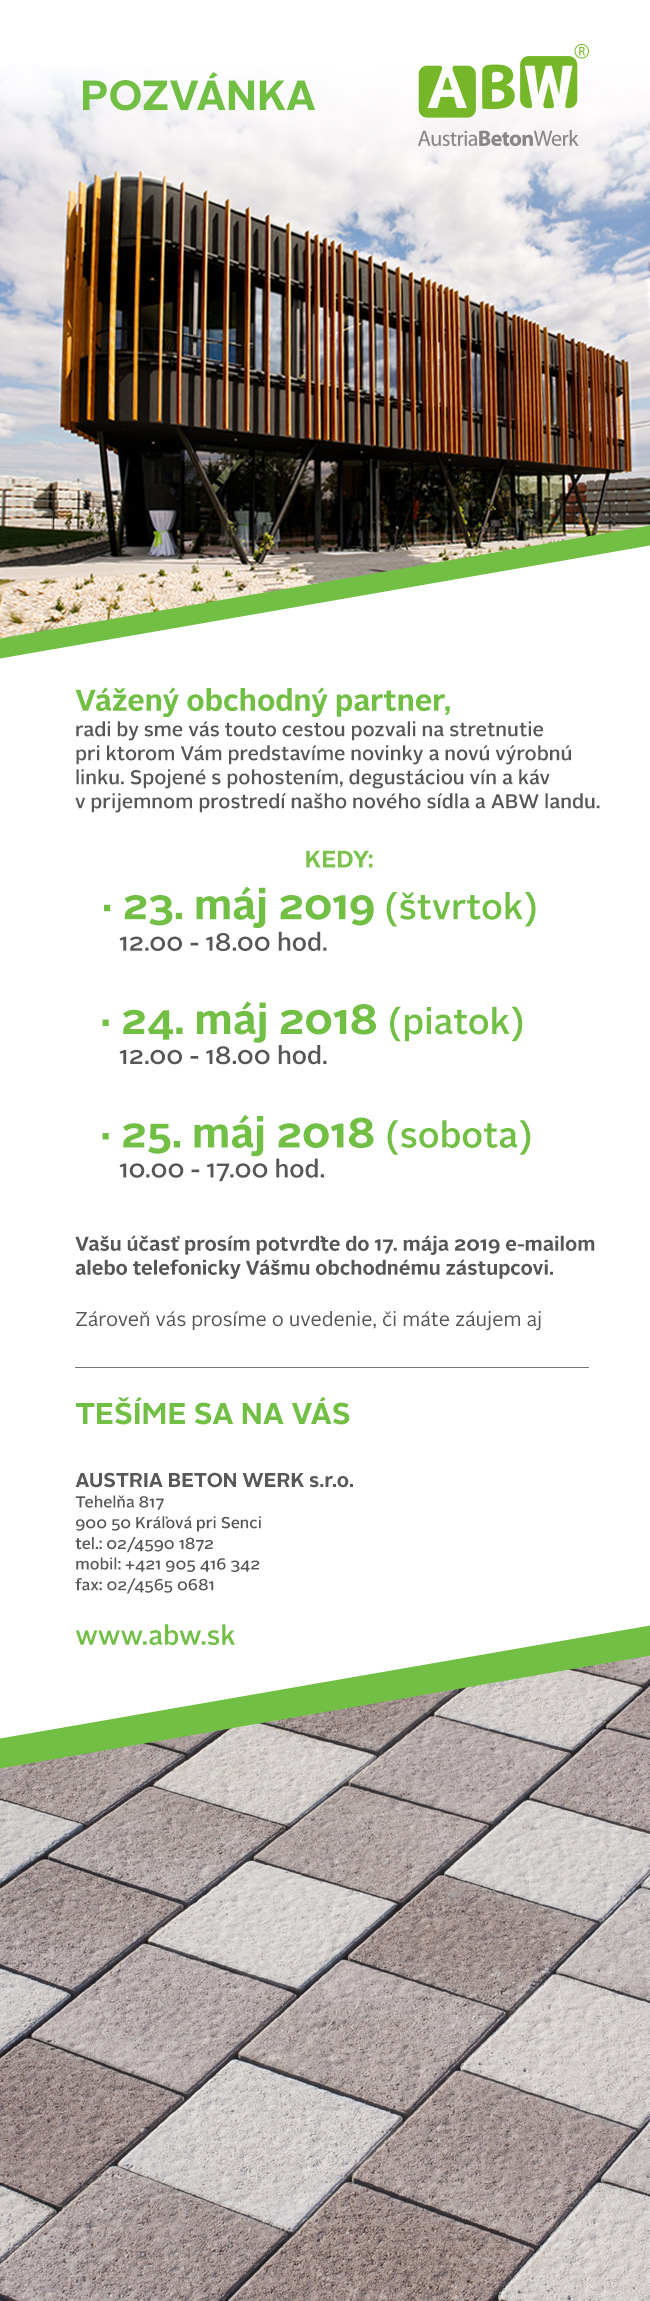
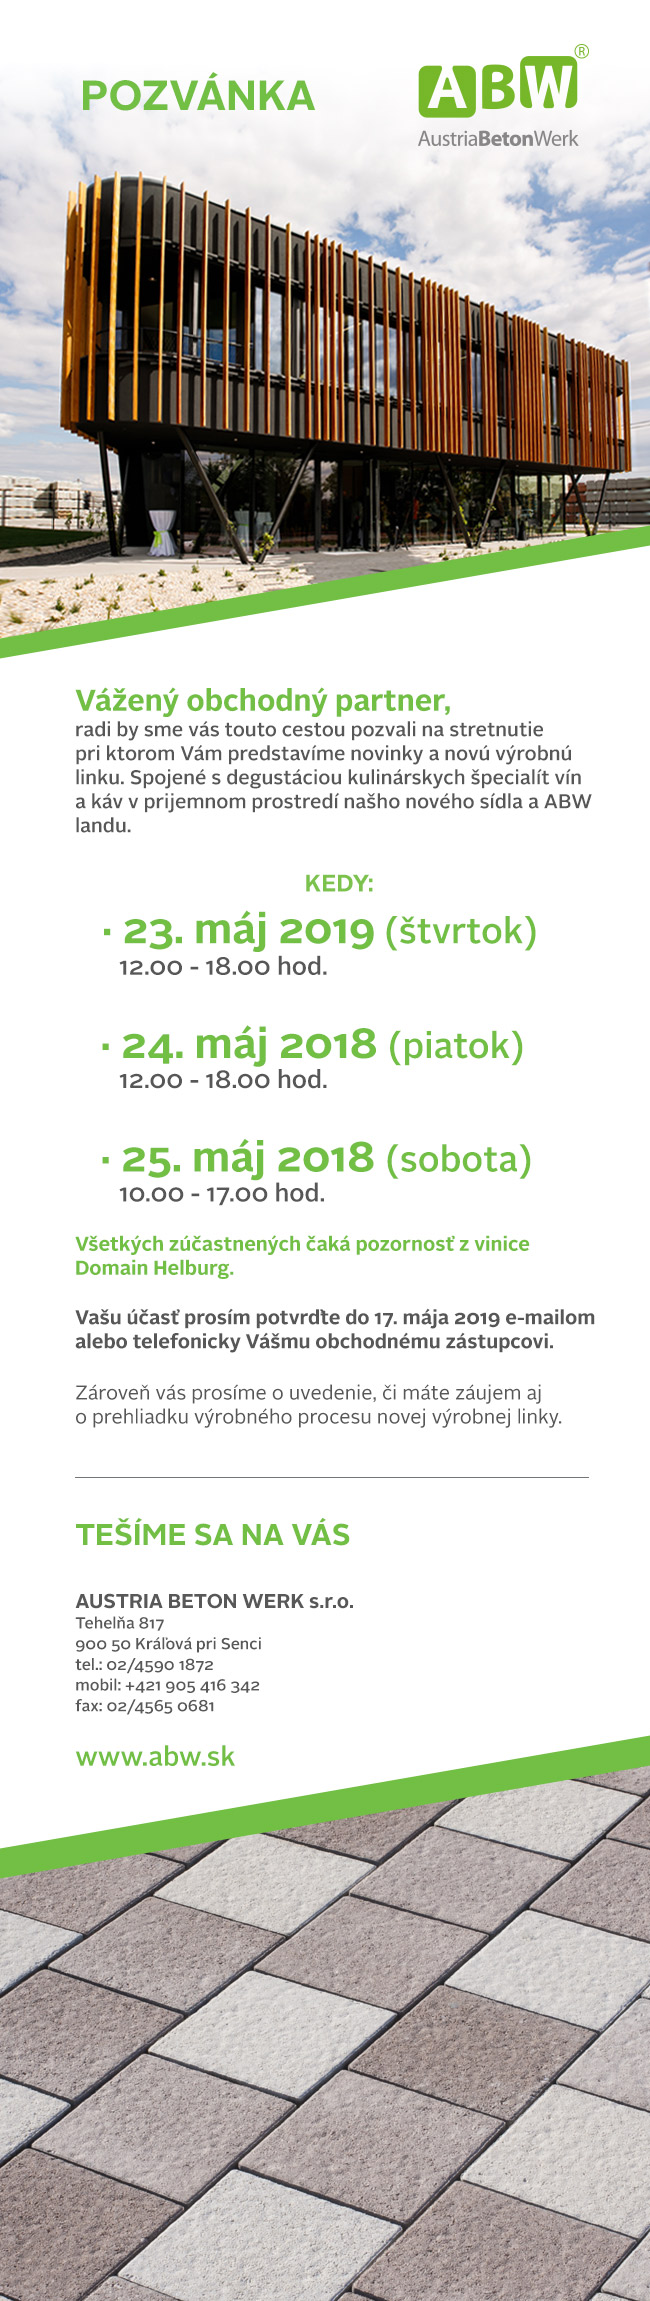
Sum

Changed region(s): [[0.0, 0.3086, 1.0, 1.0]]

diff --git a/docs/newsletter/05.19/dod/index-2.html b/docs/newsletter/05.19/dod/index-2.html
@@ -1,0 +1,20 @@
+<!doctype html>
+<html>
+<head>
+<meta charset="UTF-8">
+<title>Pozvánka</title>
+</head><style type="text/css">
+body {
+	background-color: #666;
+}
+</style>
+<div style="bgcolor=#666666" >
+
+<center>
+ <a href="http://www.abw.sk"><img alt="top" border="0" height="2301" src="http://www.abw.sk/buxus/images//2019.05/DOD/Pozvanka_DOD_partneri_05.19-2.jpg" width="650"></a>
+</center>
+</div>
+
+
+</body>
+</html>
